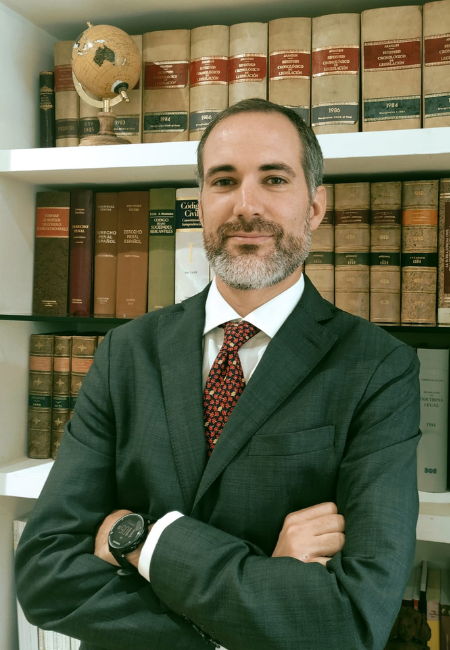
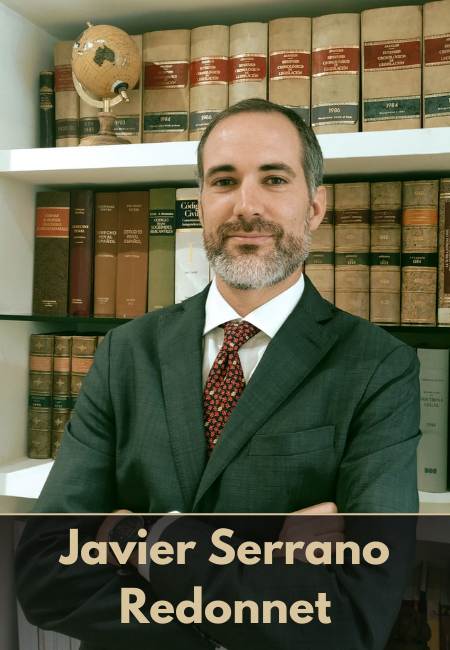
Modificación de imágenes de Equipo y corrección de error en ADP

Changed region(s): [[0.0, 0.7692, 1.0, 1.0]]

diff --git a/pages/areas-de-practica.html b/pages/areas-de-practica.html
@@ -80,7 +80,7 @@
         <!-- Section 2 -->
         <section class="practica-section-2">
             <div class="container">
-                <div class="row">
+                <div class="row borderbottpractband">
                     <div class="col-12">
                         <p class="psection2adp">Buscamos ofrecer a nuestros clientes asesoramiento legal integral de excelencia. A fin de cumplir con dicho cometido, formamos un equipo de especialistas con amplios conocimientos y experiencia en las distintas áreas del derecho.</p>
                         <p class="psection2adp">Seguidamente encontrarán diferentes sub-secciones con la variedad de servicios que LEGEM ofrece. Los invitamos a navegar por las mismas y efectuarnos todas sus consultas por nuestros canales de contacto.</p>

diff --git a/css/style.css b/css/style.css
@@ -363,7 +363,6 @@ img.img-serv:hover {
 
 .title-serveur {
   padding-top: 8rem;
-  border-top: 1px solid #CBB17E;
 }
 
 a.a-volver {
